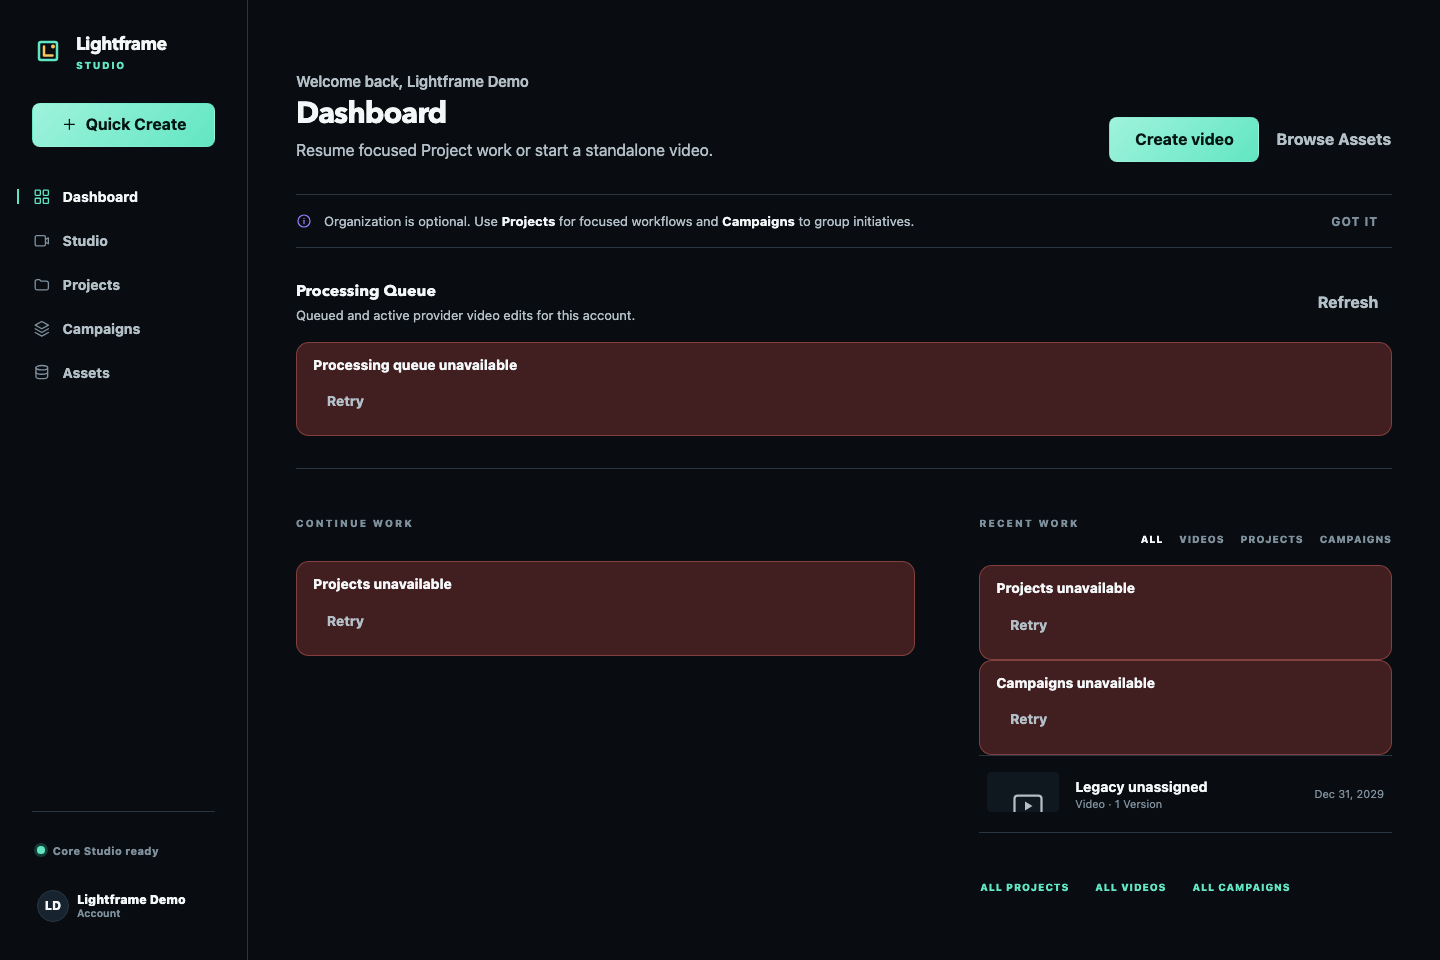
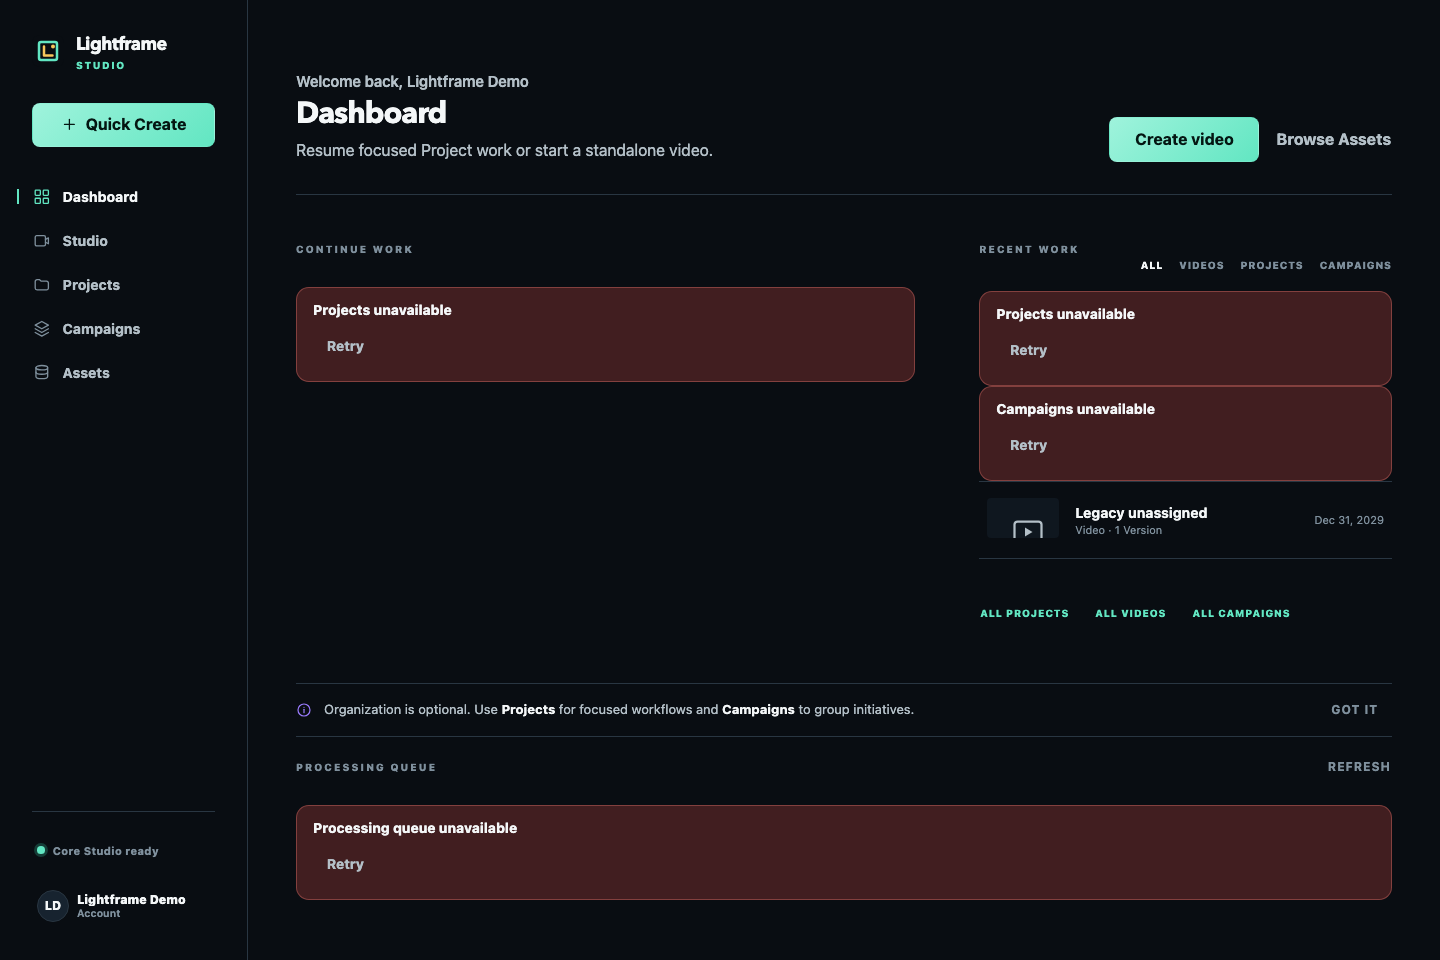
Step 10: Make the dashboard lead with the work

Changed region(s): [[0.1875, 0.5312, 0.9688, 0.9375], [0.1875, 0.2188, 0.9688, 0.5], [0.2188, 0.7188, 0.625, 0.75]]

diff --git a/apps/web/src/features/dashboard/DashboardRouteSurface.tsx b/apps/web/src/features/dashboard/DashboardRouteSurface.tsx
@@ -238,6 +238,8 @@ export const DashboardRouteSurface = ({
   } as const;
   const visibleLoading = visibleKinds.some((kind) => queryState[kind].loading);
   const visibleErrors = visibleKinds.filter((kind) => queryState[kind].error);
+  const queueJobs = processingQueueQuery.data?.jobs ?? [];
+  const queueActive = queueJobs.length > 0;
 
   const dismissOnboarding = () => {
     const persisted = persistDashboardOnboardingDismissed(ownerUserId);
@@ -279,89 +281,6 @@ export const DashboardRouteSurface = ({
           </Button>
         </div>
       </header>
-
-      {onboardingVisible ? (
-        <aside css={onboardingStyles(theme)} aria-labelledby="dashboard-getting-started-heading">
-          <h2 id="dashboard-getting-started-heading" data-onboarding-heading>
-            Start with the outcome you need
-          </h2>
-          <AppIcon name="info" data-onboarding-icon />
-          <p>
-            Organization is optional. Use <strong>Projects</strong> for focused workflows and{' '}
-            <strong>Campaigns</strong> to group initiatives.
-          </p>
-          <Button size="small" variant="quiet" onClick={dismissOnboarding}>
-            Got it
-          </Button>
-        </aside>
-      ) : null}
-      {onboardingStorageWarning ? (
-        <StatusNotice role="status" tone="warning" title="Preference not retained">
-          Lightframe could not save this account-scoped onboarding preference in this browser.
-        </StatusNotice>
-      ) : null}
-
-      <section css={processingQueueStyles(theme)} aria-labelledby="processing-queue-heading">
-        <header>
-          <div>
-            <h2 id="processing-queue-heading">Processing Queue</h2>
-            <p>Queued and active provider video edits for this account.</p>
-          </div>
-          <Button
-            size="small"
-            variant="quiet"
-            disabled={processingQueueQuery.isFetching}
-            onClick={() => void processingQueueQuery.refetch()}
-          >
-            Refresh
-          </Button>
-        </header>
-        {processingQueueQuery.isLoading ? <p role="status">Checking processing jobs…</p> : null}
-        {processingQueueQuery.isError ? (
-          <StatusNotice role="alert" tone="danger" title="Processing queue unavailable">
-            <Button
-              size="small"
-              variant="quiet"
-              onClick={() => void processingQueueQuery.refetch()}
-            >
-              Retry
-            </Button>
-          </StatusNotice>
-        ) : null}
-        {queueNotice ? (
-          <StatusNotice role="status" tone="success" title="Processing slot released">
-            {queueNotice}
-          </StatusNotice>
-        ) : null}
-        {processingQueueQuery.data?.jobs.length ? (
-          <ul>
-            {processingQueueQuery.data.jobs.map((job) => (
-              <li key={job.jobId}>
-                <span data-job-status>{jobStatusLabel(job.status)}</span>
-                <span data-job-details>
-                  <strong>{jobOperationLabel(job.operation)}</strong>
-                  <span>
-                    {job.provider} · Started {formatDateTime(job.createdAt)}
-                  </span>
-                </span>
-                <Button
-                  size="small"
-                  variant="danger"
-                  onClick={() => {
-                    abandonMutation.reset();
-                    setQueueNotice(null);
-                    setSelectedJob(job);
-                  }}
-                >
-                  {jobActionLabel(job.status)}
-                </Button>
-              </li>
-            ))}
-          </ul>
-        ) : !processingQueueQuery.isLoading && !processingQueueQuery.isError ? (
-          <p data-empty-queue>No queued or active video jobs.</p>
-        ) : null}
-      </section>
 
       <div css={dashboardBodyStyles(theme)}>
         <div data-dashboard-primary-column>
@@ -498,6 +417,94 @@ export const DashboardRouteSurface = ({
           </footer>
         </section>
       </div>
+
+      {onboardingVisible ? (
+        <aside css={onboardingStyles(theme)} aria-labelledby="dashboard-getting-started-heading">
+          <h2 id="dashboard-getting-started-heading" data-onboarding-heading>
+            Start with the outcome you need
+          </h2>
+          <AppIcon name="info" data-onboarding-icon />
+          <p>
+            Organization is optional. Use <strong>Projects</strong> for focused workflows and{' '}
+            <strong>Campaigns</strong> to group initiatives.
+          </p>
+          <Button size="small" variant="quiet" onClick={dismissOnboarding}>
+            Got it
+          </Button>
+        </aside>
+      ) : null}
+      {onboardingStorageWarning ? (
+        <StatusNotice role="status" tone="warning" title="Preference not retained">
+          Lightframe could not save this account-scoped onboarding preference in this browser.
+        </StatusNotice>
+      ) : null}
+
+      <section
+        css={processingQueueStyles(theme)}
+        data-queue-state={queueActive ? 'active' : 'idle'}
+        aria-labelledby="processing-queue-heading"
+      >
+        <header>
+          <div data-queue-summary>
+            <h2 id="processing-queue-heading">Processing Queue</h2>
+            {queueActive ? <p>Queued and active provider video edits for this account.</p> : null}
+            {processingQueueQuery.isLoading ? <p role="status">Checking processing jobs…</p> : null}
+            {!queueActive && !processingQueueQuery.isLoading && !processingQueueQuery.isError ? (
+              <p data-empty-queue>No queued or active video jobs.</p>
+            ) : null}
+          </div>
+          <Button
+            size="small"
+            variant="quiet"
+            disabled={processingQueueQuery.isFetching}
+            onClick={() => void processingQueueQuery.refetch()}
+          >
+            Refresh
+          </Button>
+        </header>
+        {processingQueueQuery.isError ? (
+          <StatusNotice role="alert" tone="danger" title="Processing queue unavailable">
+            <Button
+              size="small"
+              variant="quiet"
+              onClick={() => void processingQueueQuery.refetch()}
+            >
+              Retry
+            </Button>
+          </StatusNotice>
+        ) : null}
+        {queueNotice ? (
+          <StatusNotice role="status" tone="success" title="Processing slot released">
+            {queueNotice}
+          </StatusNotice>
+        ) : null}
+        {queueActive ? (
+          <ul>
+            {queueJobs.map((job) => (
+              <li key={job.jobId}>
+                <span data-job-status>{jobStatusLabel(job.status)}</span>
+                <span data-job-details>
+                  <strong>{jobOperationLabel(job.operation)}</strong>
+                  <span>
+                    {job.provider} · Started {formatDateTime(job.createdAt)}
+                  </span>
+                </span>
+                <Button
+                  size="small"
+                  variant="danger"
+                  onClick={() => {
+                    abandonMutation.reset();
+                    setQueueNotice(null);
+                    setSelectedJob(job);
+                  }}
+                >
+                  {jobActionLabel(job.status)}
+                </Button>
+              </li>
+            ))}
+          </ul>
+        ) : null}
+      </section>
 
       <ConfirmationDialog
         open={selectedJob !== null}

diff --git a/apps/web/src/features/dashboard/DashboardRouteSurface.test.tsx b/apps/web/src/features/dashboard/DashboardRouteSurface.test.tsx
@@ -313,6 +313,48 @@ describe('DashboardRouteSurface', () => {
     expect(actions.onCreateCampaign).toHaveBeenCalledOnce();
   });
 
+  it('leads with the work and keeps an idle queue to one line without losing Refresh', async () => {
+    mockApiServer.use(
+      http.get('*/api/projects', () =>
+        HttpResponse.json({
+          projects: [project],
+          nextCursor: null,
+          total: { count: 1, exceedsCeiling: false },
+        }),
+      ),
+      http.get('*/api/campaigns', () =>
+        HttpResponse.json({
+          campaigns: [campaign],
+          nextCursor: null,
+          total: { count: 1, exceedsCeiling: false },
+        }),
+      ),
+      http.get('*/api/videos', () =>
+        HttpResponse.json({
+          videos: [video],
+          nextCursor: null,
+          total: 1,
+          facets: { characterNames: [], formats: ['landscape'] },
+        }),
+      ),
+    );
+    renderDashboard('2d7914b2-f912-4b96-b17d-54100a2ffea3');
+
+    // Idle: a status and Refresh, without the section description or a job list under them.
+    expect(await screen.findByText('No queued or active video jobs.')).toBeVisible();
+    expect(screen.getByRole('button', { name: 'Refresh' })).toBeVisible();
+    expect(
+      screen.queryByText('Queued and active provider video edits for this account.'),
+    ).not.toBeInTheDocument();
+
+    const queue = screen.getByRole('heading', { name: 'Processing Queue' });
+    const precedesQueue = (heading: HTMLElement) =>
+      Boolean(heading.compareDocumentPosition(queue) & Node.DOCUMENT_POSITION_FOLLOWING);
+    // What the operator has made comes before an engineering queue that is usually empty.
+    expect(precedesQueue(await screen.findByRole('heading', { name: 'Continue Work' }))).toBe(true);
+    expect(precedesQueue(screen.getByRole('heading', { name: 'Recent Work' }))).toBe(true);
+  });
+
   it('shows active processing and requires an upstream-cost warning before releasing its slot', async () => {
     const jobId = '9f5664cf-1d2f-4248-b809-b2369ad42dd5';
     let active = true;
@@ -369,6 +411,10 @@ describe('DashboardRouteSurface', () => {
 
     expect(await screen.findByRole('heading', { name: 'Processing Queue' })).toBeVisible();
     expect(await screen.findByText('Virtual Try-On')).toBeVisible();
+    // A job present expands the queue back into a full section, description and all.
+    expect(
+      screen.getByText('Queued and active provider video edits for this account.'),
+    ).toBeVisible();
     await user.click(screen.getByRole('button', { name: 'Remove from queue' }));
     const dialog = screen.getByRole('dialog');
     expect(within(dialog).getByText(/provider has no verified cancellation API/i)).toBeVisible();
@@ -376,6 +422,9 @@ describe('DashboardRouteSurface', () => {
 
     await waitFor(() => expect(abandonBody).toEqual({ acknowledgeProviderMayContinue: true }));
     expect(await screen.findByText('No queued or active video jobs.')).toBeVisible();
+    expect(
+      screen.queryByText('Queued and active provider video edits for this account.'),
+    ).not.toBeInTheDocument();
     expect(screen.getByText(/processing slot is available/i)).toBeVisible();
   });
 });

diff --git a/apps/web/src/features/dashboard/DashboardRouteSurface.styles.ts b/apps/web/src/features/dashboard/DashboardRouteSurface.styles.ts
@@ -79,7 +79,7 @@ export const onboardingStyles = (theme: Theme): CSSObject => ({
   alignItems: 'center',
   gap: theme.space.sm,
   paddingBlock: theme.space.xxs,
-  borderBlockEnd: `1px solid ${theme.colors.border}`,
+  borderBlockStart: `1px solid ${theme.colors.border}`,
   color: theme.colors.textMuted,
   fontSize: theme.fontSizes.metadata,
   lineHeight: 1.5,
@@ -120,19 +120,20 @@ export const processingQueueStyles = (theme: Theme): CSSObject => ({
   display: 'grid',
   gap: theme.space.md,
   paddingBlock: theme.space.xl,
-  borderBlockEnd: `1px solid ${theme.colors.border}`,
+  borderBlockStart: `1px solid ${theme.colors.border}`,
   '& > header': {
     display: 'flex',
     alignItems: 'start',
     justifyContent: 'space-between',
     gap: theme.space.lg,
   },
-  '& > header h2': {
+  '& [data-queue-summary]': { minWidth: 0 },
+  '& [data-queue-summary] h2': {
     margin: 0,
     color: theme.colors.text,
     fontSize: '1rem',
   },
-  '& > header p, & > p[role="status"], & [data-empty-queue]': {
+  '& [data-queue-summary] p': {
     marginBlockStart: theme.space.xxs,
     color: theme.colors.textMuted,
     fontSize: theme.fontSizes.metadata,
@@ -174,6 +175,29 @@ export const processingQueueStyles = (theme: Theme): CSSObject => ({
   '& [data-job-details] span': {
     color: theme.colors.textFaint,
     fontSize: theme.fontSizes.caption,
+  },
+  /*
+   * Nothing is processing, so the queue says so in one line instead of spending a section of the
+   * page on it. Refresh stays on that line: with no job present it is the only way to ask again.
+   */
+  '&[data-queue-state="idle"]': {
+    paddingBlock: theme.space.xs,
+    '& > header': { alignItems: 'center' },
+    '& [data-queue-summary]': {
+      display: 'flex',
+      flexWrap: 'wrap',
+      alignItems: 'baseline',
+      columnGap: theme.space.sm,
+    },
+    '& [data-queue-summary] h2': { ...sectionEyebrowStyles(theme), margin: 0 },
+    '& [data-queue-summary] p': { marginBlockStart: 0 },
+    '& > header > button': {
+      paddingInline: 0,
+      color: theme.colors.textFaint,
+      fontSize: theme.fontSizes.caption,
+      letterSpacing: '0.08em',
+      textTransform: 'uppercase',
+    },
   },
   '@media (max-width: 36rem)': {
     '& > ul > li': { gridTemplateColumns: 'auto minmax(0, 1fr)' },

diff --git a/docs/user-flows/dashboard-and-navigation.md b/docs/user-flows/dashboard-and-navigation.md
@@ -40,17 +40,9 @@ Sections in DOM order:
    actions: **Create video** (primary) and **Browse Assets**. The heading's visible text is also its
    accessible name; the greeting used to exist only as a `title` tooltip, and the heading used to
    read "Momentum Workspace" while announcing "Dashboard".
-2. **Getting-started card** — "Start with the outcome you need". Dismissed per account via
-   `localStorage` (`dashboardOnboarding.ts`); if the write fails a warning notice appears
-   (`DashboardRouteSurface.tsx:280-284`).
-3. **Processing Queue** — `GET /api/video-jobs` via `listActiveVideoJobs`, polled every 3 s **only
-   while at least one job exists** (`DashboardRouteSurface.tsx:138-142`). Each row shows a derived
-   status ("Queued" / "Finalizing" / "Active"), the operation, the provider, and the start time,
-   plus a destructive **Remove from queue / Stop tracking** action guarded by a
-   `ConfirmationDialog` that explicitly warns the provider may still bill.
-4. **Continue Work** — the first project from the active project list, or an empty panel offering
+2. **Continue Work** — the first project from the active project list, or an empty panel offering
    **New Project**.
-5. **Recent Work** — merged list of the newest 4 projects, 4 videos and 4 campaigns, sorted by
+3. **Recent Work** — merged list of the newest 4 projects, 4 videos and 4 campaigns, sorted by
    `updatedAt` descending, filtered by an All / Videos / Projects / Campaigns toggle, then sliced to
    4 items. Every row opens the specific record it names: projects go to `/projects/{id}`, campaigns
    to `/campaigns/{id}`, and videos to `/assets/videos?video={id}`, which opens that video's preview
@@ -61,7 +53,22 @@ Sections in DOM order:
    costs a request of its own. A row with nothing to show says "No preview yet"; a campaign says
    "Campaign", because it organizes work rather than producing it and no poster is coming.
 
-6. **Footer links** — All Projects · All Videos · All Campaigns.
+4. **Footer links** — All Projects · All Videos · All Campaigns.
+5. **Getting-started card** — "Start with the outcome you need". Dismissed per account via
+   `localStorage` (`dashboardOnboarding.ts`); if the write fails a warning notice appears
+   (`DashboardRouteSurface.tsx:436-440`).
+6. **Processing Queue** — `GET /api/video-jobs` via `listActiveVideoJobs`, polled every 3 s **only
+   while at least one job exists** (`DashboardRouteSurface.tsx:151`).
+
+   With no job, the section is one line: the label, "No queued or active video jobs." and
+   **Refresh**. A job expands it back to a full section — its description, and a row per job
+   showing a derived status ("Queued" / "Finalizing" / "Active"), the operation, the provider and
+   the start time, plus a destructive **Remove from queue / Stop tracking** action guarded by a
+   `ConfirmationDialog` that explicitly warns the provider may still bill.
+
+The work comes first deliberately. The queue is an engineering view of provider jobs, and on most
+visits it has nothing to report; leading with it, and with an explanation of Projects versus
+Campaigns, put two blocks the operator did not ask for above everything they had made.
 
 There is no separate "Start New" section. It offered **New Project** and **New Campaign**, both
 already reachable from Quick Create, from the Recent Work empty state, and — for New Project —
@@ -82,17 +89,17 @@ and displays 4.
 
 ## States
 
-| State                                 | Present?                                    | Where                  |
-| ------------------------------------- | ------------------------------------------- | ---------------------- |
-| Loading — projects                    | Yes, `role="status"` "Finding recent work…" | `:354`                 |
-| Loading — recent work                 | Yes, "Loading recent work…"                 | `:427`                 |
-| Loading — queue                       | Yes, "Checking processing jobs…"            | `:301`                 |
-| Error — projects / videos / campaigns | Yes, per-kind `StatusNotice` with Retry     | `:355-361`, `:428-439` |
-| Error — queue                         | Yes, with Retry                             | `:302-312`             |
-| Empty — continue work                 | Yes, with **New Project**                   | `:380-388`             |
-| Empty — recent work                   | Yes, message + a filter-specific action     | `:458-465`             |
-| Empty — queue                         | Yes, "No queued or active video jobs."      | `:343-345`             |
-| Success feedback                      | Yes, `queueNotice` after abandoning a job   | `:313-317`             |
+| State                                 | Present?                                                                  | Where                  |
+| ------------------------------------- | ------------------------------------------------------------------------- | ---------------------- |
+| Loading — projects                    | Yes, `role="status"` "Finding recent work…"                               | `:291`                 |
+| Loading — recent work                 | Yes, "Loading recent work…"                                               | `:348`                 |
+| Loading — queue                       | Yes, "Checking processing jobs…"                                          | `:451`                 |
+| Error — projects / videos / campaigns | Yes, per-kind `StatusNotice` with Retry                                   | `:292-298`, `:349-359` |
+| Error — queue                         | Yes, `role="alert"` with Retry                                            | `:465-471`             |
+| Empty — continue work                 | Yes, with **New Project**                                                 | `:318-325`             |
+| Empty — recent work                   | Yes, message + a filter-specific action                                   | `:399-404`             |
+| Empty — queue                         | Yes, "No queued or active video jobs.", on the section's one compact line | `:452-454`             |
+| Success feedback                      | Yes, `queueNotice` after abandoning a job                                 | `:476-480`             |
 
 The Dashboard is the most complete surface in the product for loading/empty/error coverage.
 
